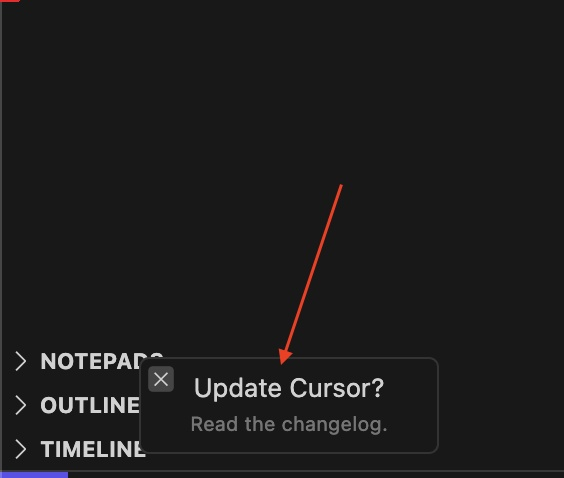
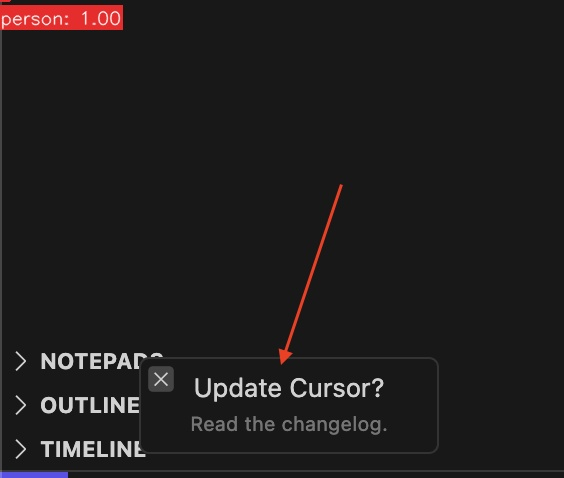
labels added by pytorch

Changed region(s): [[0.0, 0.0, 0.2411, 0.0879]]

diff --git a/utils/visualization.py b/utils/visualization.py
@@ -44,13 +44,20 @@ def draw_bounding_boxes(image: np.ndarray, boxes: np.ndarray, scores: np.ndarray
             x1, y1, x2, y2 = map(int, box)
             
             # Get color for this class
-            class_color = colors[int(label) % len(colors)] if len(colors) > 0 else color
+            if isinstance(class_names, dict):
+                class_color = colors[int(label) % len(colors)] if len(colors) > 0 else color
+                class_name = class_names.get(int(label), f"class_{int(label)}")
+            elif isinstance(class_names, list):
+                class_color = colors[int(label) % len(colors)] if len(colors) > 0 else color
+                class_name = class_names[int(label)] if int(label) < len(class_names) else f"class_{int(label)}"
+            else:
+                class_color = color
+                class_name = f"class_{int(label)}"
             
             # Draw bounding box
             cv2.rectangle(annotated_image, (x1, y1), (x2, y2), class_color, thickness)
             
             # Prepare label text
-            class_name = class_names.get(int(label), f"class_{int(label)}")
             label_text = f"{class_name}: {score:.2f}"
             
             # Calculate text size and position

diff --git a/utils/postprocessing.py b/utils/postprocessing.py
@@ -92,14 +92,17 @@ def process_yolo_output(output: np.ndarray, original_shape: Tuple[int, int],
         
         # Extract boxes and confidence
         boxes = output[:, :4]  # [x_center, y_center, width, height]
-        obj_conf = output[:, 4]  # objectness confidence
         
-        # Extract class probabilities and find best class
+        # Apply sigmoid to objectness and class probabilities
+        obj_conf = 1 / (1 + np.exp(-output[:, 4]))  # sigmoid of objectness
+        
+        # Extract class probabilities and apply sigmoid
         class_probs = output[:, 5:]
-        class_conf = np.max(class_probs, axis=1)
-        class_labels = np.argmax(class_probs, axis=1)
+        class_probs_sigmoid = 1 / (1 + np.exp(-class_probs))  # sigmoid for each class
+        class_conf = np.max(class_probs_sigmoid, axis=1)
+        class_labels = np.argmax(class_probs_sigmoid, axis=1)
         
-        # Calculate final confidence
+        # Calculate final confidence (objectness * class confidence)
         final_conf = obj_conf * class_conf
         
         # Filter by confidence threshold

diff --git a/pytorch_inference/inference.py b/pytorch_inference/inference.py
@@ -117,7 +117,9 @@ class PyTorchInference:
                 original_shape = image.shape[:2]  # (height, width)
                 
                 # Preprocess image (resize, normalize, etc.)
-                processed_image, scale_factor = preprocess_image(image)
+                # For PyTorch YOLO, let Ultralytics handle preprocessing internally
+                processed_image = image
+                scale_factor = 1.0
                 
                 preprocessed_images.append(processed_image)
                 scale_factors.append(scale_factor)
